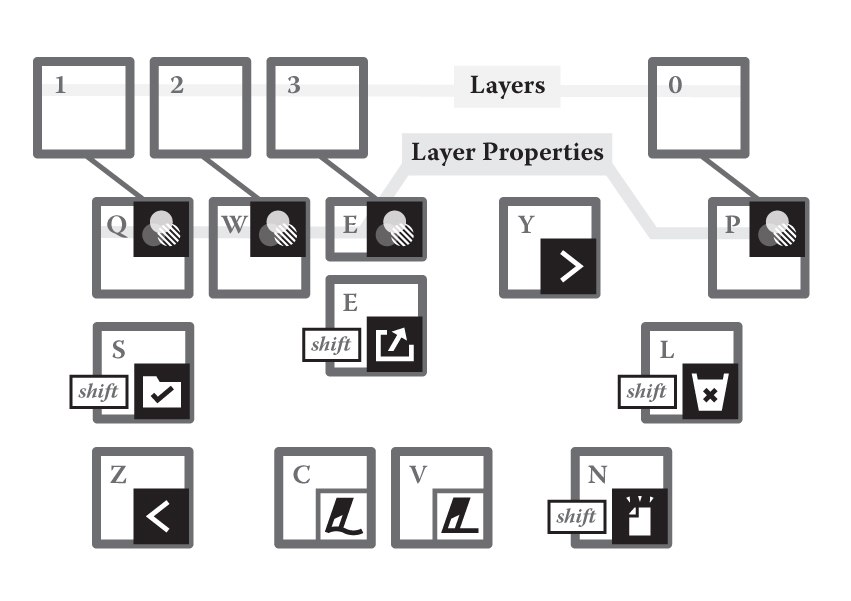
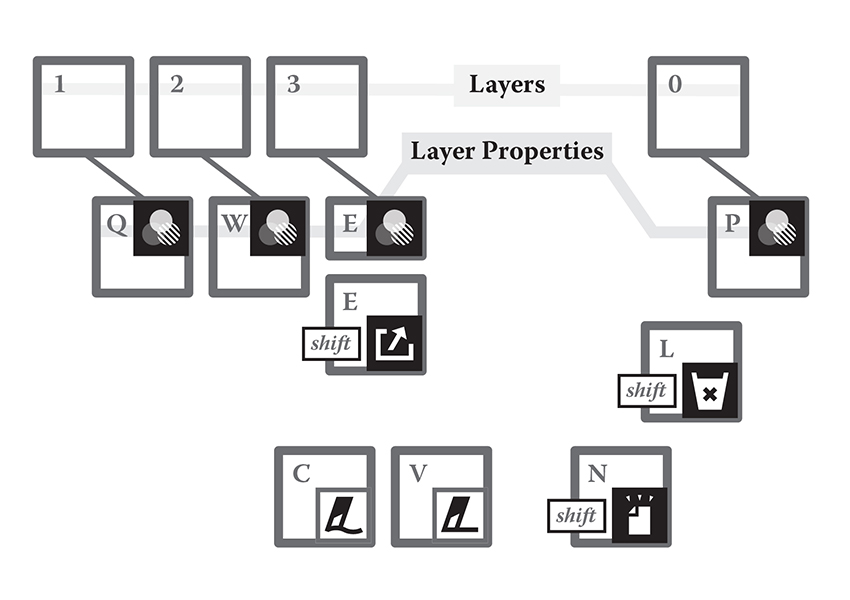
Updated shortcut map, hid buttons, changed initial layer colors & textures
Removed undo, redo and save from the interface (for now) and updated
shortcut map .jpg to accommodate the change. Changed initial color
values and texture assignments for the layers, fixed layer nesting
order so textures span the whole div.

diff --git a/src/css/main.css b/src/css/main.css
@@ -68,17 +68,32 @@ header {
 }
 
 .layerBg {
-  background-color:#fae7d3;
+  background-color:#f5bf93
 }
 .layer1 {
-  background-color:#007D6E;
+  background-color:#931ba8;
+}
+.layer1 .texture {
+  background-image: url("/assets/textures/small/texture_02.png");
+  border: medium none;
+  width: 100%;
+  height: 80px;
+  background-position:top;
 }
 .layer2 {
-  background-color:#D8D618;
+  background-color:#d7d518;
 }
 .layer3 {
-  background-color:#FFB873;
+  background-color:#14deaf;
 }
+.layer3 .texture{
+  background-image: url("/assets/textures/small/texture_10.png");
+  border: medium none;
+  width: 100%;
+  height: 80px;
+  background-position:top;
+}
+
 .activeLayer {
   border: solid 5px rgba(0, 0, 0, 1);
   box-shadow: -1px 2px rgba(84, 76, 68, 0.3);
@@ -113,6 +128,8 @@ header {
   background-color:#fff;
   float:left;
   height:100%;
+  position:absolute;
+  z-index:3;
 }
 
 .texture {
@@ -191,6 +208,7 @@ textarea {
   width: calc(100% - 15px);
   height: calc(100% - 22px);
   margin: 5px 10px 0px 5px;
+  background-color:#fff;
 
 }
 
@@ -205,7 +223,7 @@ textarea {
 }
 
 .strip2 {
-  width:60px;
+  width:70px;
   height:8px;
   background-color:#00f6ff;
   position:absolute;
@@ -246,4 +264,13 @@ textarea {
   height:25px;
   padding:2px;
   background-color:#fff3e6;;
+}
+
+/* hidden buttons for future use */
+
+.undo img, .redo img, .save img{
+  display:none;
+}
+.undo, .redo{
+  width:15px;
 }

diff --git a/src/js/app.js b/src/js/app.js
@@ -11,22 +11,22 @@ window._app = {
     strokeColor: "#43597D",
     layers: {
       layerBg: {
-        fillColor: "#fae7d3",
-        texture: "texture_02.png",
-        opacity: 1
-      },
-      layer1: {
-        fillColor: "#007D6E",
+        fillColor: "#f5bf93",
         texture: null,
         opacity: 1
       },
+      layer1: {
+        fillColor: "#931ba8",
+        texture: "texture_02.png",
+        opacity: 1
+      },
       layer2: {
-        fillColor: "#D8D618",
+        fillColor: "#d7d518",
         texture: null,
         opacity: 1
       },
       layer3: {
-        fillColor: "#FFB873",
+        fillColor: "#14deaf",
         texture: "texture_07.png",
         opacity: 1
       }

diff --git a/src/index.html b/src/index.html
@@ -158,9 +158,9 @@
 
 <div id="column2">
 <div class="strip"></div>
-<div class="dimensions">
+<!-- <div class="dimensions">
   <p>canvas area</p>
-  <textarea class="width" name="width" rows="1" cols="2">8000</textarea> x <textarea class="height" name="height" rows="1" cols="2">600</textarea></div>
+  <textarea class="width" name="width" rows="1" cols="2">8000</textarea> x <textarea class="height" name="height" rows="1" cols="2">600</textarea></div> -->
 <canvas id="myCanvas"></canvas>
 
 

diff --git a/src/js/app/_textures.js b/src/js/app/_textures.js
@@ -5,8 +5,9 @@ function setTexture(targetTexture) {
   });
   $("." + app.activeLayer + " .texture").css({
     'backgroundImage': 'url("/assets/textures/small/' + targetTexture + '")',
+    'backgroundPosition': 'top',
     'border': 'none',
-    'width': '160px',
+    'width': '100%',
     'height': '80px'
   });
   // $("." + app.activeLayer + " .texture").hide();
